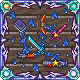
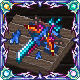
重绘了icon，增加了返还袋

diff --git a/StickyWeapons.cs b/StickyWeapons.cs
@@ -24,6 +24,8 @@ using Terraria.Audio;
 using static StickyWeapons.StickyFunc;
 using Terraria.DataStructures;
 using System.IO;
+using Terraria.Localization;
+using ReLogic.Graphics;
 
 namespace StickyWeapons
 {
@@ -279,16 +281,16 @@ namespace StickyWeapons
             float heightOffsetHitboxCenter = self.HeightOffsetHitboxCenter;
         myLabel:
             stickyPlr.index++;
-            if (stickyPlr.index >= stickyPlr.max) 
-            { 
+            if (stickyPlr.index >= stickyPlr.max)
+            {
                 if (Main.myPlayer == self.whoAmI)
-                { 
-                    if (self.selectedItem == 58) 
-                        Main.mouseItem = self.HeldItem; 
-                    else 
-                        Main.mouseItem.SetDefaults(); 
-                }  
-                return; 
+                {
+                    if (self.selectedItem == 58)
+                        Main.mouseItem = self.HeldItem;
+                    else
+                        Main.mouseItem.SetDefaults();
+                }
+                return;
             }// self.lastVisualizedSelectedItem = self.HeldItem; 
             //Main.NewText(self.lastVisualizedSelectedItem.Name);
             Item item = stickyPlr.items[stickyPlr.index];
@@ -1156,14 +1158,14 @@ namespace StickyWeapons
         //    DisplayName.SetDefault("胶水");
         //    Tooltip.SetDefault("看起来可以把两件道具粘起来...在它把你的手和道具粘起来之前");
         //}
-        public bool CanChoose(Item _item) => _item.active && _item.type != ItemID.None && (_item.damage > 0 || _item.type == ModContent.ItemType<StickyItem>()) && _item.maxStack == 1 && !_item.consumable && _item.useAnimation > 2 && Vector2.DistanceSquared(_item.Center, Item.Center) <= 4096;
+        public static bool CanChoose(Item _item) => _item.active && _item.type != ItemID.None && (_item.damage > 0 || _item.type == ModContent.ItemType<StickyItem>()) && _item.maxStack == 1 && !_item.consumable && _item.useAnimation > 2;
         public override void Update(ref float gravity, ref float maxFallSpeed)
         {
             //Main.NewText(StickyWeapons.value);
             Item item1 = null;
             foreach (var _item in Main.item)
             {
-                if (CanChoose(_item))
+                if (CanChoose(_item) && Vector2.DistanceSquared(_item.Center, Item.Center) <= 4096)
                 {
                     item1 = _item;
                     break;
@@ -1172,7 +1174,7 @@ namespace StickyWeapons
             if (item1 == null) return;
             foreach (var _item in Main.item)
             {
-                if (CanChoose(_item) && _item.GetHashCode() != item1.GetHashCode())
+                if (CanChoose(_item) && Vector2.DistanceSquared(_item.Center, Item.Center) <= 4096 && _item.GetHashCode() != item1.GetHashCode())
                 {
 
                     var stickyIndex = Main.item[Item.NewItem(Item.GetSource_Misc("Sticky!"), Item.Center, ModContent.ItemType<StickyItem>())];// Item.NewItem(Item.GetSource_Misc("Sticky!"), Item.Center, ModContent.ItemType<StickyItem>())
@@ -1317,6 +1319,7 @@ namespace StickyWeapons
             bool channel = false;
             float knockBack = 0;
             int damage = 0;
+            int useStyle = ItemUseStyleID.Swing;
             foreach (var i in ItemSet)
             {
                 width = i.width > width ? i.width : width;
@@ -1329,6 +1332,7 @@ namespace StickyWeapons
                 knockBack = i.knockBack > knockBack ? i.knockBack : knockBack;
                 value += i.value + 5;
                 channel |= i.channel;
+                if (i.useStyle == ItemUseStyleID.Shoot) useStyle = ItemUseStyleID.Shoot;
             }
             Item.width = width;
             Item.height = height;
@@ -1339,7 +1343,7 @@ namespace StickyWeapons
             Item.shootSpeed = shootSpeed;
             Item.damage = damage;
             Item.knockBack = knockBack;
-            Item.useStyle = ItemUseStyleID.Swing;
+            Item.useStyle = useStyle;
             Item.channel = channel;
         }
         public override string Texture => "Terraria/Images/Item_" + ItemID.Gel;
@@ -2052,7 +2056,7 @@ namespace StickyWeapons
             ItemSet = list.ToArray();
             SetDefaults();
         }
-        static ModRarity GetRarity(int type)
+        public static ModRarity GetRarity(int type)
         {
             var rarities = (List<ModRarity>)typeof(RarityLoader).GetField("rarities", BindingFlags.Static | BindingFlags.NonPublic).GetValue(null);
             return type >= ItemRarityID.Count && type < RarityLoader.RarityCount ? rarities[type - ItemRarityID.Count] : null;
@@ -2092,6 +2096,234 @@ namespace StickyWeapons
         {
             Item.maxStack = 999;
             Item.height = Item.width = 10;
+        }
+    }
+    public class ShowItem : ModItem
+    {
+        public override string Texture => "Terraria/Images/Item_1";
+        public override bool PreDrawInInventory(SpriteBatch spriteBatch, Vector2 position, Rectangle frame, Color drawColor, Color itemColor, Vector2 origin, float scale)
+        {
+            if (Main.LocalPlayer == null || StickySystem.weaponTypes == null) return true;
+
+            //if ((int)(Main.GlobalTimeWrappedHourly * 60) % 60 == 0)
+            //    TextureAssets.Item[Type] = TextureAssets.Item[StickySystem.weaponTypes == null ? 1 : Main.rand.Next(StickySystem.weaponTypes)];
+            bool foundFirst = false;
+            foreach (var item in Main.LocalPlayer.inventory) 
+            {
+                if (StickySystem.weaponTypes.Contains(item.type)) 
+                {
+                    if (!foundFirst)
+                    {
+                        foundFirst = true;
+                        if (!FoundFirstWeaponInInventory) 
+                        {
+                            FoundFirstWeaponInInventory = true;
+                            TextureAssets.Item[Type] = TextureAssets.Item[item.type];
+                            break;
+                        }
+                    }
+                    else 
+                    {
+                        FoundFirstWeaponInInventory = false;
+                        TextureAssets.Item[Type] = TextureAssets.Item[item.type];
+                        break;
+                    }
+
+                }
+            }
+            //spriteBatch.DrawString(FontAssets.MouseText.Value, FoundFirstWeaponInInventory.ToString(), position, Color.White);
+            return base.PreDrawInInventory(spriteBatch, position, frame, drawColor, itemColor, origin, scale);
+        }
+        public static bool FoundFirstWeaponInInventory;
+        public override void UpdateInventory(Player player)
+        {
+            Item.TurnToAir();
+            base.UpdateInventory(player);
+        }
+    }
+    public class ReturnStickyBag : ModItem 
+    {
+        public override void SetDefaults()
+        {
+            Item.width = Item.height = 32;
+            Item.value = 1;
+            Item.rare = ItemRarityID.Cyan;
+            Item.maxStack = 114514;
+            base.SetDefaults();
+        }
+        public override void ModifyTooltips(List<TooltipLine> tooltips)
+        {
+            if (items == null) return;
+            foreach (var item in items)
+            {
+                var tip = new TooltipLine(Mod, "Items", $"[i:{item.type}]{item.Name} x {item.stack}");
+                var rare = item.rare;
+                float num3 = Main.mouseTextColor / 255f;
+                float num4 = num3;
+                int a = Main.mouseTextColor;
+                var color = new Color(num4, num4, num4, num4);
+                if (rare == -11)
+                    color = new Color((byte)(255f * num4), (byte)(175f * num4), (byte)(0f * num4), a);
+
+                if (rare == -1)
+                    color = new Color((byte)(130f * num4), (byte)(130f * num4), (byte)(130f * num4), a);
+
+                if (rare == 1)
+                    color = new Color((byte)(150f * num4), (byte)(150f * num4), (byte)(255f * num4), a);
+
+                if (rare == 2)
+                    color = new Color((byte)(150f * num4), (byte)(255f * num4), (byte)(150f * num4), a);
+
+                if (rare == 3)
+                    color = new Color((byte)(255f * num4), (byte)(200f * num4), (byte)(150f * num4), a);
+
+                if (rare == 4)
+                    color = new Color((byte)(255f * num4), (byte)(150f * num4), (byte)(150f * num4), a);
+
+                if (rare == 5)
+                    color = new Color((byte)(255f * num4), (byte)(150f * num4), (byte)(255f * num4), a);
+
+                if (rare == 6)
+                    color = new Color((byte)(210f * num4), (byte)(160f * num4), (byte)(255f * num4), a);
+
+                if (rare == 7)
+                    color = new Color((byte)(150f * num4), (byte)(255f * num4), (byte)(10f * num4), a);
+
+                if (rare == 8)
+                    color = new Color((byte)(255f * num4), (byte)(255f * num4), (byte)(10f * num4), a);
+
+                if (rare == 9)
+                    color = new Color((byte)(5f * num4), (byte)(200f * num4), (byte)(255f * num4), a);
+
+                if (rare == 10)
+                {
+                    color = new Color((byte)(255f * num4), (byte)(40f * num4), (byte)(100f * num4), a);
+                }
+
+                if (rare == 11)
+                    color = new Color((byte)(180f * num4), (byte)(40f * num4), (byte)(255f * num4), a);
+
+                if (rare > 11)
+                    color = StickyItem.GetRarity(rare).RarityColor * num4;
+
+                if (item.expert || rare == -12)
+                    color = new Color((byte)(Main.DiscoR * num4), (byte)(Main.DiscoG * num4), (byte)(Main.DiscoB * num4), a);
+
+                if (item.master || rare == -13)
+                    color = new Color((byte)(255f * num4), (byte)(Main.masterColor * 200f * num4), 0, a);
+                tip.OverrideColor = color;
+                tooltips.Add(tip);
+            }
+            base.ModifyTooltips(tooltips);
+        }
+        public Item[] items;
+        public override void SetStaticDefaults()
+        {
+            DisplayName.SetDefault("返还袋");
+            Tooltip.SetDefault("包含以下物品");
+            base.SetStaticDefaults();
+        }
+        public override bool CanRightClick()
+        {
+            return true;
+        }
+        public override string Texture => "Terraria/Images/Item_" + ItemID.KingSlimeBossBag;
+
+        public override void RightClick(Player player)
+        {
+            for (int n = 0; n < 500; n++)
+            {
+                var fac = n / 500f - 0.5f;
+                var color = Main.hslToRgb(fac * 0.1f + 0.6f, 1f, .75f);
+                fac *= MathHelper.TwoPi;
+                var position = (fac * 3).ToRotationVector2() * (MathF.Sin(5 * fac) - .5f);
+                Dust dust = Dust.NewDustPerfect(player.Center + position * 256, 278, new Vector2(-position.Y, position.X), 100, color, 1f);
+                dust.scale = 0.4f + Main.rand.NextFloat(-1, 1) * 0.1f;
+                dust.fadeIn = 0.4f + Main.rand.NextFloat() * 0.3f;
+                dust.fadeIn *= .5f;
+                dust.noGravity = true;
+                dust.velocity *= (3f + Main.rand.NextFloat() * 4f) * 2;
+            }
+            foreach (var item in items) 
+            {
+                player.QuickSpawnClonedItem(Item.GetSource_GiftOrReward(), item, item.stack);
+            }
+        }
+    }
+    public class StickySystem : ModSystem
+    {
+        public static int[] weaponTypes;
+        public RecipeGroup recipeGroup;
+        public override void AddRecipeGroups()
+        {
+            List<int> types = new List<int>
+            {
+                ModContent.ItemType<ShowItem>()
+            };
+            for (int i = 0; i < ItemLoader.ItemCount; i++)
+            {
+                Item item = new Item(i);
+                if (Glue.CanChoose(item)) types.Add(i);
+            }
+            weaponTypes = types.ToArray();
+            recipeGroup = new RecipeGroup(() => Language.GetTextValue("LegacyMisc.37") + " 武器Weapons(包里前两个The first two in Inventory)", weaponTypes);
+            RecipeGroup.RegisterGroup("SitckyWeapons:Weapons!!", recipeGroup);
+        }
+        public override void PostUpdateTime()
+        {
+            if (weaponTypes != null && weaponTypes.Length > 0 && (int)(Main.GlobalTimeWrappedHourly * 2) % 2 == 0)
+                recipeGroup.IconicItemId = Main.rand.Next(weaponTypes);
+        }
+        public override void AddRecipes()
+        {
+            Recipe recipe = Recipe.Create(ModContent.ItemType<StickyItem>());
+            recipe.AddIngredient<Glue>(1);
+            recipe.AddRecipeGroup("SitckyWeapons:Weapons!!");
+            recipe.AddRecipeGroup("SitckyWeapons:Weapons!!");
+            recipe.AddOnCraftCallback
+            (
+                (recipe, item, consumedItems) =>
+                {
+                    StickyItem sticky = item.ModItem as StickyItem;
+                    var items = from target in consumedItems where target.type != ModContent.ItemType<Glue>() select target;
+                    var array = items.ToArray();
+                    sticky.theItems.Item1 = array[0].Clone();
+                    sticky.theItems.Item2 = array[1].Clone();
+                    sticky.theItems.Item1.stack = 1;
+                    sticky.theItems.Item2.stack = 1;
+                    var list = new List<Item>();
+                    sticky.GetItemSet(list);
+                    sticky.ItemSet = list.ToArray();
+                    sticky.SetDefaults();
+
+                    //foreach (var i in consumedItems)
+                    //{
+                    //    Main.NewText((i.Clone().Name, i.type, i.stack));
+                    //}
+                }
+            );
+            recipe.Register();
+
+            recipe = Recipe.Create(ModContent.ItemType<ReturnStickyBag>());
+            recipe.AddIngredient<StickyItem>(1);
+            recipe.AddIngredient<OrganicSolvent>(1);
+            recipe.AddOnCraftCallback
+            (
+                (recipe, item, consumedItems) =>
+                {
+                    ReturnStickyBag returnStickyBag = item.ModItem as ReturnStickyBag;
+                    List<Item> items = new List<Item>();
+                    var set = (consumedItems[0].ModItem as StickyItem).ItemSet;
+                    foreach (var _item in set) 
+                    {
+                        items.Add(_item.Clone());
+                    }
+                    items.Add(new Item(ItemID.Ale));
+                    items.Add(new Item(ItemID.Gel, set.Length * 5));
+                    returnStickyBag.items = items.ToArray();
+                }
+            );
+            recipe.Register();
         }
     }
     //public class TestClass : Projectile
